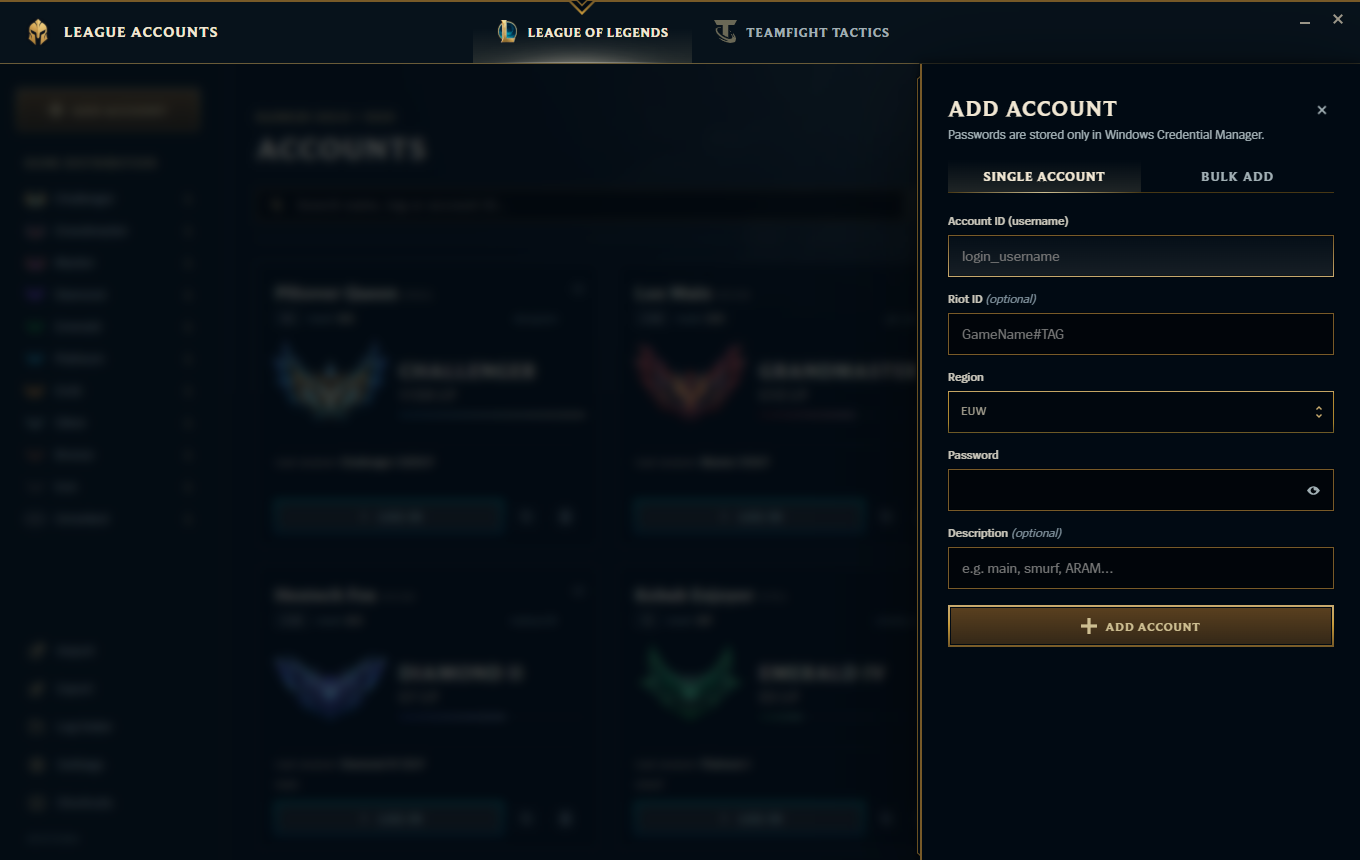
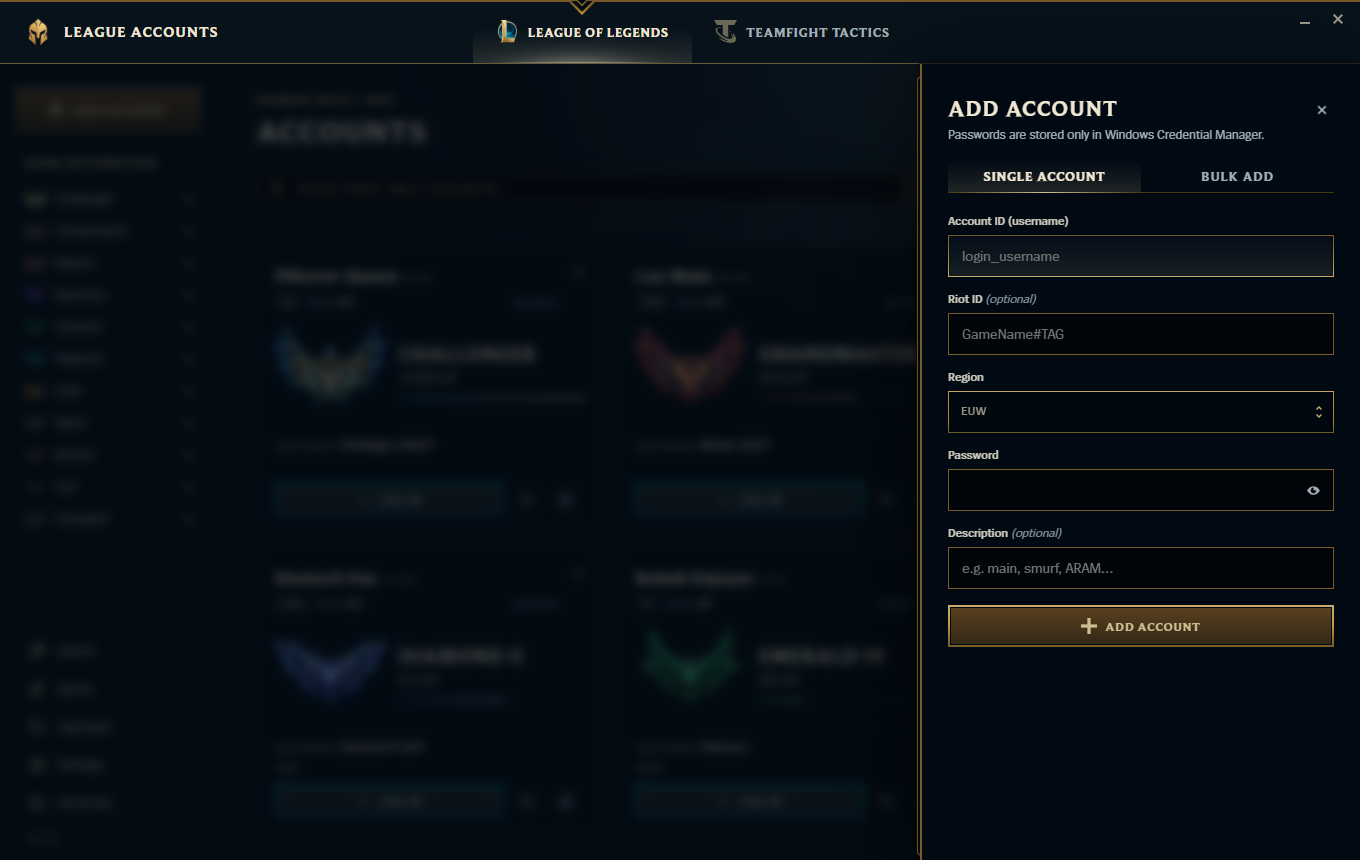
docs: hide preview-only labels from README captures
Captures hide the DEV DATA badge and Reset demo and show the release
version instead of the mock's v3.0.3-dev. The three #DEV sample accounts
get realistic tags, IDs and notes.

diff --git a/ui/src/mock.ts b/ui/src/mock.ts
@@ -21,9 +21,9 @@ const sample: AccountView[] = [
   ["goldenboy", "Golden Boy#KR1", "KR", "256", "Lee Sin OTP", lol("Gold", "III", "76", "Gold I", "Platinum IV"), tft("Emerald", "II", "5", "Platinum II")],
   ["gm_lux", "Lux Main#EUW", "EUW", "520", "", lol("Grandmaster", "", "512", "Master 210LP"), tft("Diamond", "IV", "0", "Emerald I")],
   ["bronzie", "Bronze Spirit#TR1", "TR", "61", "", lol("Bronze", "I", "99", "Iron I"), tft("Bronze", "IV", "17")],
-  ["dev_master", "Arcane Scholar#DEV", "EUNE", "380", "Master preview", lol("Master", "", "210", "Diamond I"), tft("Challenger", "", "1040", "Grandmaster")],
-  ["dev_platinum", "Tidal Wave#DEV", "BR", "143", "Platinum preview", lol("Platinum", "II", "48", "Gold I"), tft("Grandmaster", "", "520", "Master")],
-  ["dev_iron", "First Recall#DEV", "KR", "30", "Iron preview", lol("Iron", "IV", "7", "Unranked"), tft("Silver", "II", "36", "Bronze I")],
+  ["scholarly", "Arcane Scholar#EUNE", "EUNE", "380", "TFT main", lol("Master", "", "210", "Diamond I"), tft("Challenger", "", "1040", "Grandmaster")],
+  ["tidalwave", "Tidal Wave#BR1", "BR", "143", "duo with Leo", lol("Platinum", "II", "48", "Gold I"), tft("Grandmaster", "", "520", "Master")],
+  ["firstrecall", "First Recall#KR1", "KR", "30", "fresh account", lol("Iron", "IV", "7", "Unranked"), tft("Silver", "II", "36", "Bronze I")],
 ].map(([accountId, name, regionDisplay, level, description, lolRank, tftRank]) => ({
   accountId: accountId as string,
   name: name as string,
